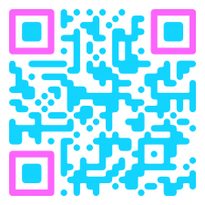
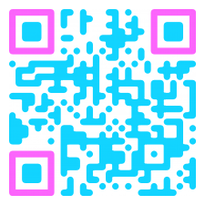
项目预览地址和二维码

Changed region(s): [[0.0293, 0.0293, 0.9659, 0.9659]]

diff --git a/README.md b/README.md
@@ -1,16 +1,16 @@
 #  Bilebilelike项目
 *(2019-04-04 08:30)*  
-[预览Bilibililike →](https://thetime50.github.io/Bilebilelike/)
+[预览Bilibililike →](http://thetime50.com/Bilebilelike/)
 
 ![Bilibililike-qr.png](docs/imgs/Bilibililike-qr.png)
 
 <!-- 
-http://www.wwei.cn
+http://old.wwei.cn/
 https://thetime50.github.io/Bilebilelike
 液态 205 15%  
 #fc65fc #12d4ff #12d4ff #ffffff
  -->
-[test-client →](https://thetime50.github.io/Bilebilelike/test-client/dist/)
+[test-client →](http://thetime50.com/Bilebilelike/test-client/dist/)
 
 ## 说明
 用于面试准备的作品，类似bilibili app的vue实现  
